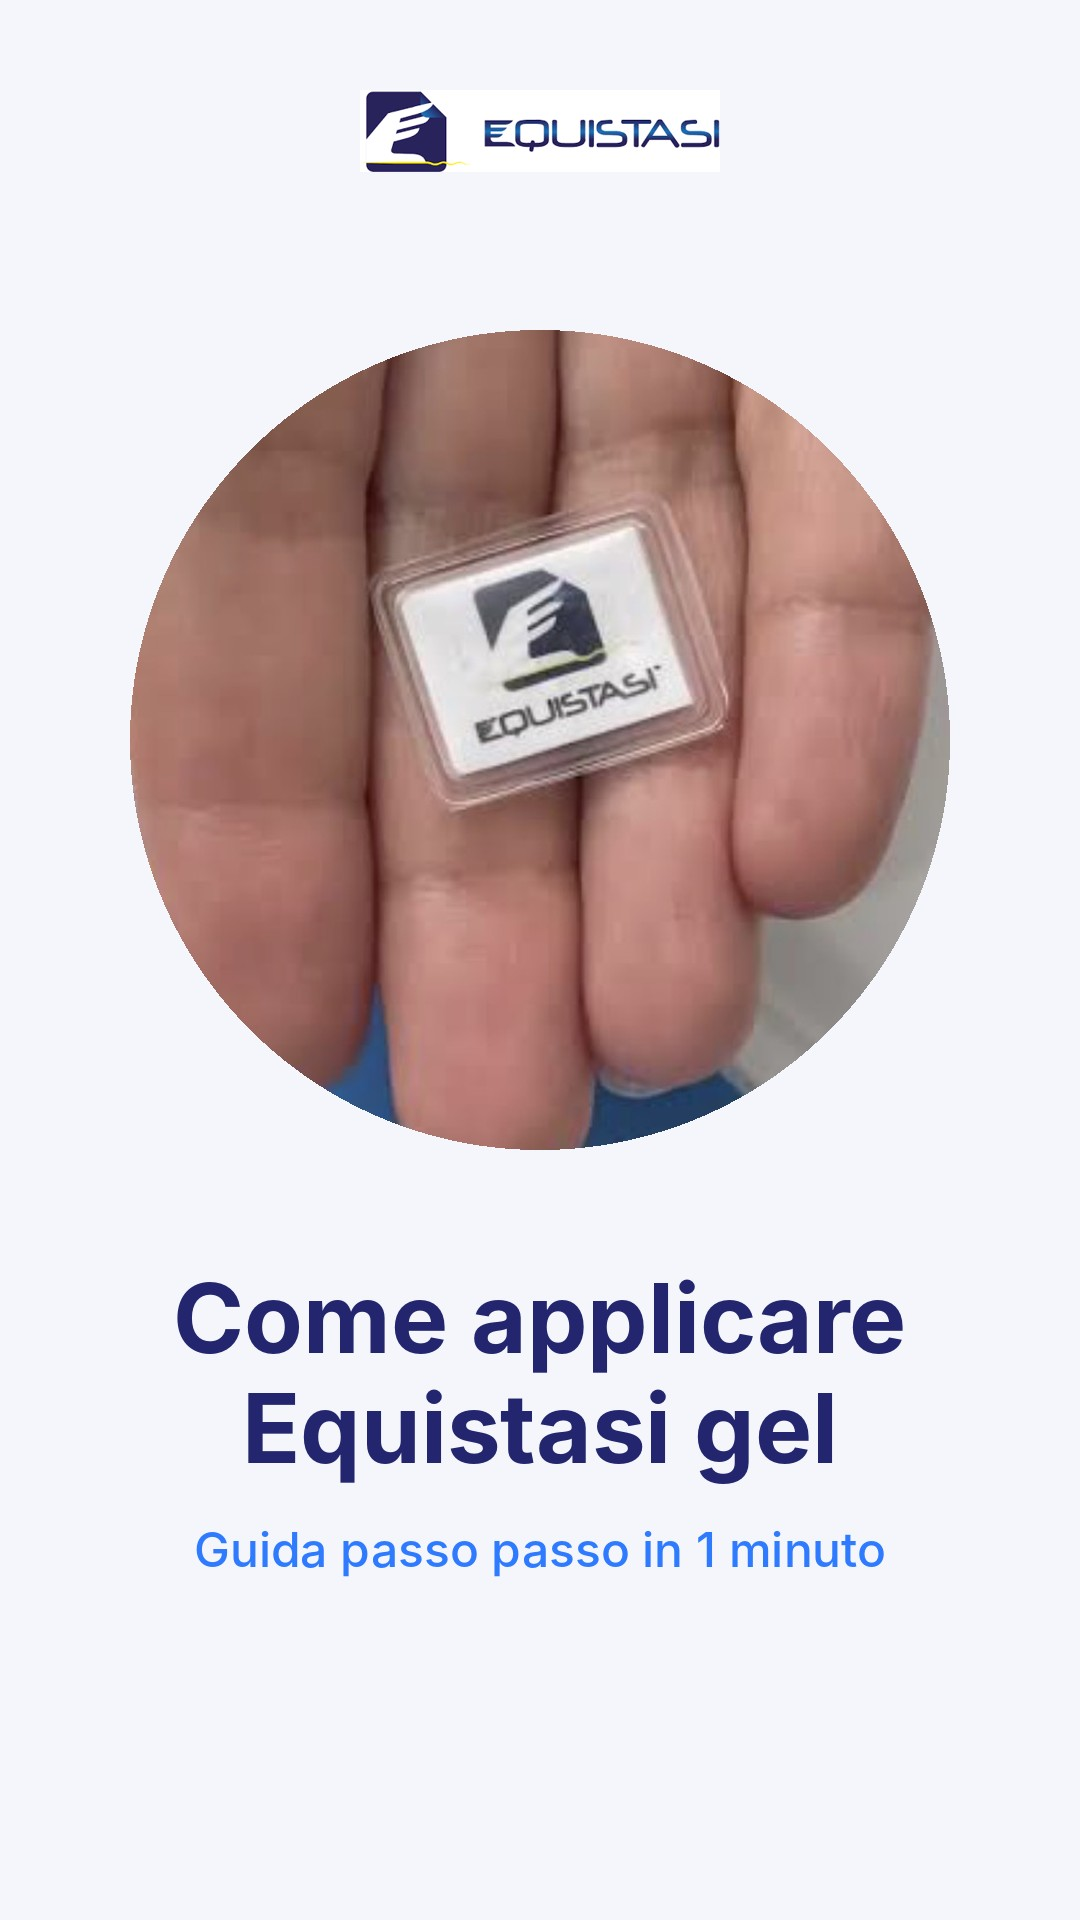
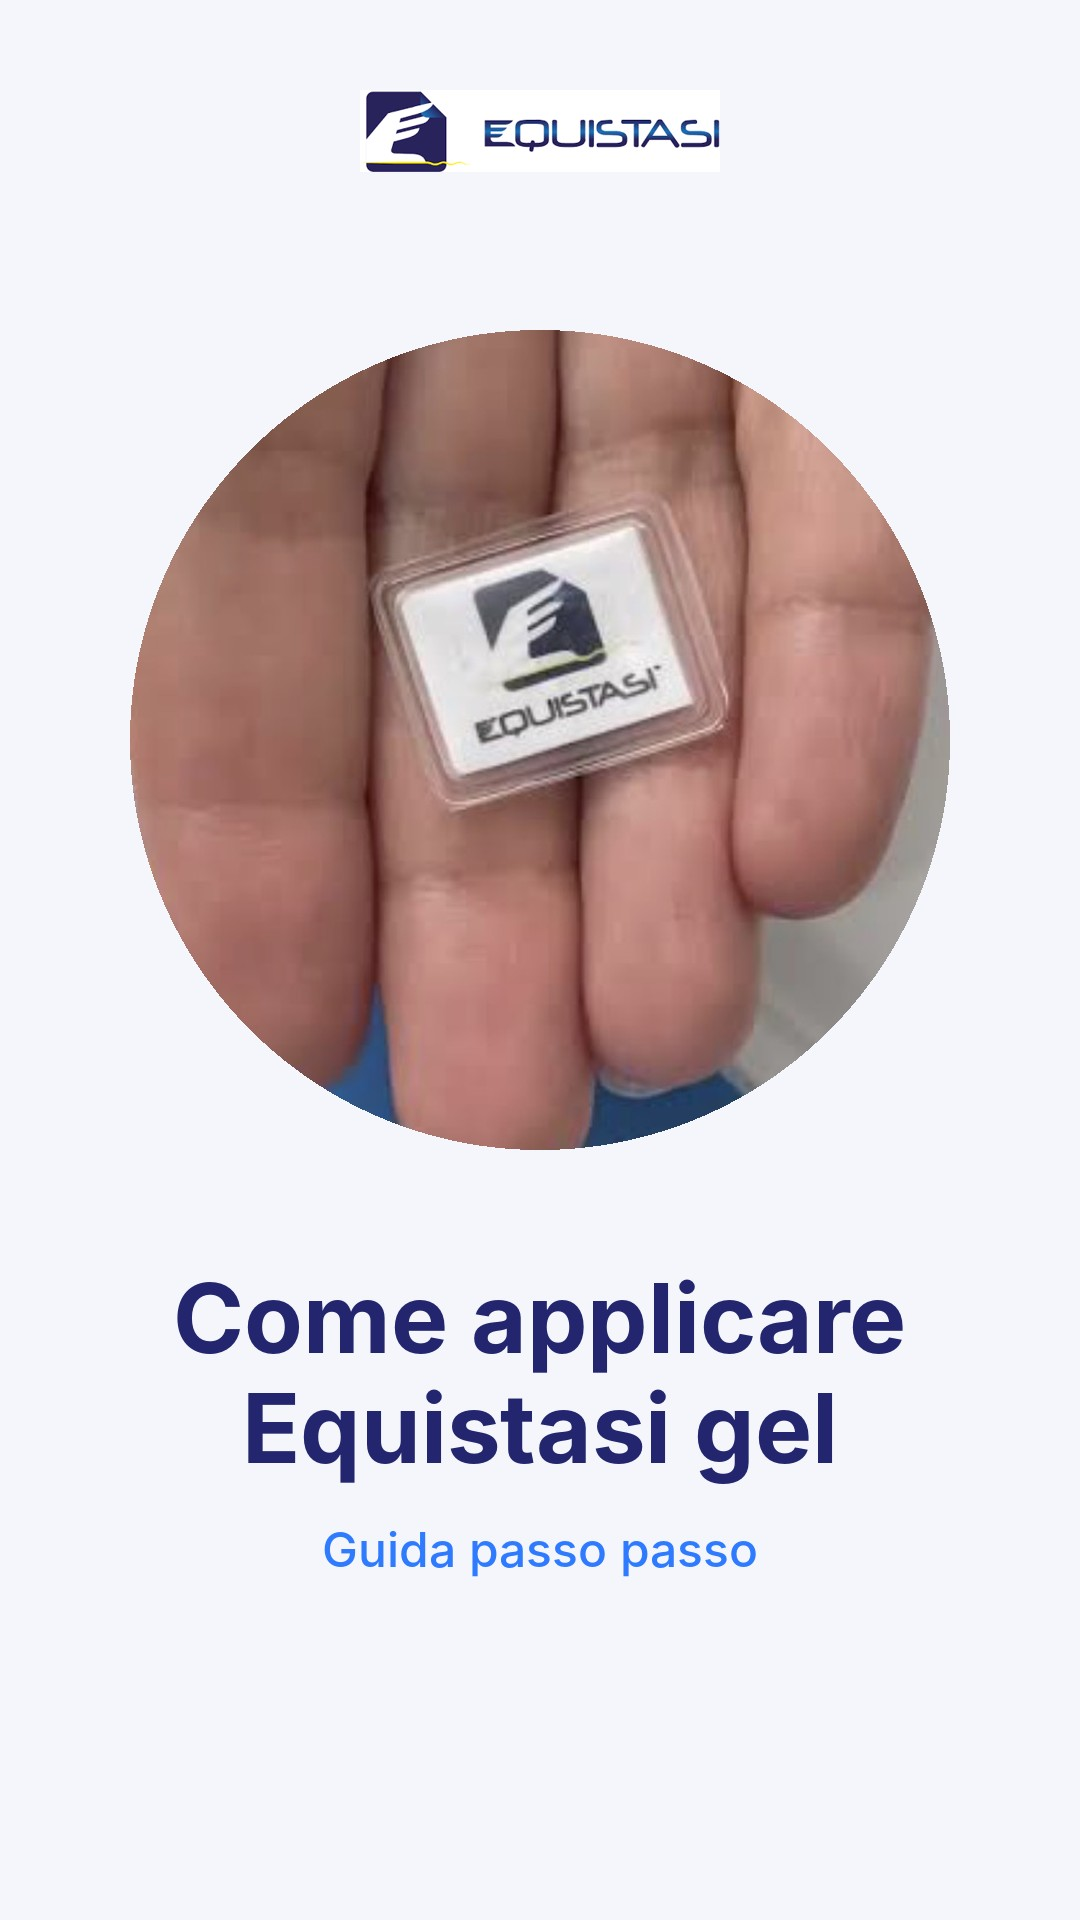
Use the Equistasi gel photo for the gel device and in the gel tutorial slides
Claude-Session: https://claude.ai/code/session_01QAocTE2r1HCBYJM3SbD15E

Changed region(s): [[0.1833, 0.7812, 0.825, 0.8438]]

diff --git a/js/app.js b/js/app.js
@@ -127,6 +127,13 @@
   const videoPromo = '<a class="card vpromo" href="#/video"><span class="vpromo-ico" aria-hidden="true"><svg viewBox="0 0 24 24" width="26" height="26"><path d="M8 5v14l11-7z" fill="#fff"/></svg></span>' +
       '<span><b>Video tutorial</b><br><span class="small muted">Guarda come applicare il dispositivo</span></span><span class="chev" aria-hidden="true">›</span></a>';
 
+  // Foto del kit: per il gel quella del dispositivo con il bordo in gel
+  function kitFigure() {
+    return state.devType === 'gel'
+      ? '<figure><img src="img/gel-kit.jpg" alt="Dispositivo Equistasi gel nel palmo della mano, accanto all’astuccio" loading="lazy" width="573" height="1000" /><figcaption>Equistasi gel</figcaption></figure>'
+      : '<figure><img src="img/kit.jpg" alt="Kit Equistasi con i dispositivi" loading="lazy" width="360" height="600" /><figcaption>Il kit Equistasi</figcaption></figure>';
+  }
+
   // Foto delle custodie usa e getta, mostrate solo per Equistasi gel
   function gelPhotos() {
     if (state.devType !== 'gel') return '';
@@ -145,7 +152,7 @@
       '<div class="card"><h3>Come applicare il dispositivo</h3>' +
       '<div class="device"><img src="img/dispositivo.jpg" alt="Dispositivo Equistasi" width="480" height="386" loading="lazy" />' +
       '<p>Posiziona il dispositivo nei punti indicati dal tuo protocollo.</p></div>' +
-      '<div class="howto"><figure><img src="img/kit.jpg" alt="Kit Equistasi con i dispositivi" loading="lazy" width="360" height="600" /><figcaption>Il kit Equistasi</figcaption></figure>' +
+      '<div class="howto">' + kitFigure() +
       '<figure><img src="img/applicazione.jpg" alt="Dispositivo Equistasi fissato sulla pelle con il cerotto trasparente" loading="lazy" width="600" height="515" /><figcaption>Fissato sulla pelle con il cerotto trasparente</figcaption></figure></div>' +
       '<div class="toolbar"><span class="small"><b>Il tuo dispositivo è:</b></span><div class="seg" role="group" aria-label="Tipo di dispositivo">' +
       Object.keys(EQ.types).map((t) => '<button data-devtype="' + t + '" aria-pressed="' + (state.devType === t) + '">' + EQ.types[t] + '</button>').join('') +
@@ -284,7 +291,7 @@
       '<div class="card"><h3>Come applicare il dispositivo Equistasi</h3>' +
       '<div class="device"><img src="img/dispositivo.jpg" alt="Dispositivo Equistasi" width="480" height="386" loading="lazy" />' +
       '<p>Il <b>centro del dispositivo</b> va posizionato esattamente sulla <b>X</b> della mappa.</p></div>' +
-      '<div class="howto"><figure><img src="img/kit.jpg" alt="Kit Equistasi con i dispositivi" loading="lazy" width="360" height="600" /><figcaption>Il kit Equistasi</figcaption></figure>' +
+      '<div class="howto">' + kitFigure() +
       '<figure><img src="img/applicazione.jpg" alt="Dispositivo Equistasi fissato sulla pelle con il cerotto trasparente" loading="lazy" width="600" height="515" /><figcaption>Fissato sulla pelle con il cerotto trasparente</figcaption></figure></div>' +
       '<div class="toolbar"><span class="small"><b>Il tuo dispositivo è:</b></span><div class="seg" role="group" aria-label="Tipo di dispositivo">' +
       Object.keys(EQ.types).map((t) => '<button data-devtype="' + t + '" aria-pressed="' + (state.devType === t) + '">' + EQ.types[t] + '</button>').join('') +

diff --git a/index.html b/index.html
@@ -20,7 +20,7 @@
   <meta name="twitter:card" content="summary_large_image" />
   <meta name="apple-mobile-web-app-capable" content="yes" />
   <meta name="apple-mobile-web-app-title" content="Equistasi Point" />
-  <link rel="stylesheet" href="css/style.css?v=18" />
+  <link rel="stylesheet" href="css/style.css?v=19" />
 </head>
 <body>
   <!-- Definizioni condivise dalle figure (pattern della zona secondaria) -->
@@ -113,9 +113,9 @@
     </div>
   </div>
 
-  <script src="js/config.js?v=18"></script>
-  <script src="js/body.js?v=18"></script>
-  <script src="js/data.js?v=18"></script>
-  <script src="js/app.js?v=18"></script>
+  <script src="js/config.js?v=19"></script>
+  <script src="js/body.js?v=19"></script>
+  <script src="js/data.js?v=19"></script>
+  <script src="js/app.js?v=19"></script>
 </body>
 </html>

diff --git a/sw.js b/sw.js
@@ -1,5 +1,5 @@
 // Cache per l'uso offline. Aumenta VERSION a ogni rilascio.
-const VERSION = 'tp-v18';
+const VERSION = 'tp-v19';
 const FILES = [
   './', 'index.html', 'css/style.css', 'js/config.js', 'js/body.js', 'js/data.js', 'js/app.js',
   'img/logo.png', 'img/dispositivo.jpg', 'img/icon-192.png', 'img/icon-512.png', 'manifest.webmanifest',

diff --git a/tools/video/slides.py b/tools/video/slides.py
@@ -48,15 +48,15 @@ def step_slide(n,title,body,photo,name):
     c.save(f'{OUT}/{name}.png')
 dev=Image.open(U+'f7f8178d-image.jpg').convert('RGB')
 shot=Image.open(U+'bfa5c4c7-image.jpg').convert('RGB')
-kit=shot.crop((0,0,535,930)); app_=Image.open(A+'applicazione.jpg').convert('RGB')
+kit=Image.open(U+'713c3877-image.jpg').convert('RGB').crop((0,0,1255,2190)); app_=Image.open(A+'applicazione.jpg').convert('RGB')
 cust=Image.open(U+'17f2a5f7-image.jpg').convert('RGB'); busta=Image.open(U+'ad30ce66-image.jpg').convert('RGB')
 # 1 titolo
 c,d=base(); p=rounded(cover(dev,820,820),410); c.paste(p,(130,330),p)
 y=text(d,1260,'Come applicare\nEquistasi gel',font('Bold',96),NAVY,gap=1.15)
-text(d,y+40,'Guida passo passo in 1 minuto',font('Medium',48),BLUE); c.save(f'{OUT}/01.png')
+text(d,y+40,'Guida passo passo',font('Medium',48),BLUE); c.save(f'{OUT}/01.png')
 # 2 cosa serve
 c,d=base(); a=rounded(cover(kit,440,700)); b=rounded(cover(busta,440,700)); c.paste(a,(80,260),a); c.paste(b,(560,260),b)
-d.text((80,985),'Dispositivo',font=font('SemiBold',38),fill=(60,64,90)); d.text((560,985),'Custodie usa e getta',font=font('SemiBold',38),fill=(60,64,90))
+d.text((80,985),'Equistasi gel',font=font('SemiBold',38),fill=(60,64,90)); d.text((560,985),'Custodie usa e getta',font=font('SemiBold',38),fill=(60,64,90))
 y=text(d,1120,'Cosa ti serve',font('Bold',72),NAVY)+30
 for t in ['• Il dispositivo Equistasi gel','• Una custodia usa e getta (nuova ogni volta)','• Il cerotto applicatore adesivo, in omaggio nella confezione']:
     for l in wrap(d,t,font('Medium',46),900): d.text((90,y),l,font=font('Medium',46),fill=(60,64,90)); y+=60
